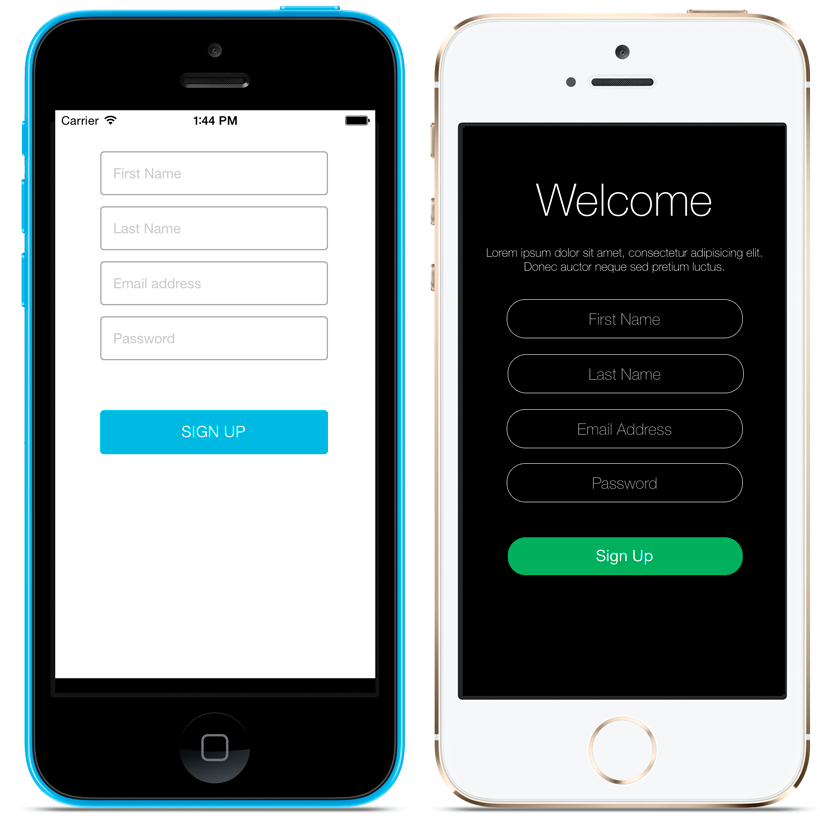
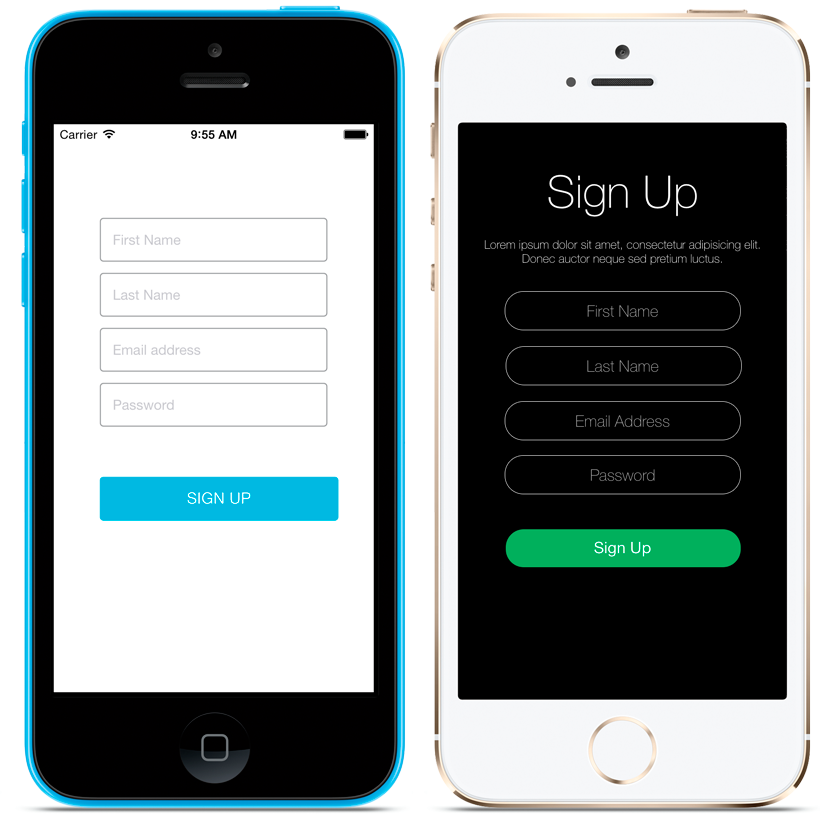
LMW-85 Added auth widgets documentation pages

diff --git a/ios/Documentation/ForgotPasswordWidget.md b/ios/Documentation/ForgotPasswordWidget.md
@@ -1,0 +1,75 @@
+# ForgotPasswordWidget for iOS (Auth module)
+
+## Important note
+__This product is under heavy development and most of the features aren't ready to be used in production.
+It's public just in order to allow developers to preview the technology.__
+
+## Features
+- Send an email to an already registered user with the new password or reset link (depending on server configuration)
+- Three different authentication methods are supported:
+	- Email address
+	- Screen name
+	- User id
+
+
+## Supported in themes
+
+- Default
+- Flat7
+
+![Forgot password widget using Default and Flat7 themes](Images/forgotpwd.png "Forgot password widget using Default and Flat7 themes")
+
+## Requirements
+
+- XCode 6.0 or above
+- iOS 8 SDK
+- Liferay Portal 6.2 CE or EE
+- Mobile Widgets plugin installed
+
+## Compatiblity
+
+- iOS 7 and above
+
+## Server configuration
+
+### Authentication method
+Note that the authentication method configured in the portal can be different than the used in this widget. You may want to allow users to remember their password providing their email address but the authentication method could be based on screen name.
+
+### Password reset
+Depending on server configuration `Control Panel - Portal Settings - Authentication`, the forgot password features could be enabled or not.
+
+![](Images/password-reset.png)
+
+- If both options are unchecked, this feature is be disabled.
+- If both options are checked, an email with reset link will be sent
+- If first option is checked and second one is unchecked, an email with new password will be sent.
+
+Refer to [Configuring Portal Settings](https://www.liferay.com/documentation/liferay-portal/6.2/user-guide/-/ai/portal-settings-liferay-portal-6-2-user-guide-16-en) section for more details.
+
+
+### Anonymous request
+Given that this request is done without being logged in, it need to be authenticated against the API. It's recommended that the portal administrator creates an specific user with minimal permissions in order to allow this operation.
+
+
+## Attributes
+
+| Attribute | Data type | Explanation |
+|-----------|-----------|-------------| 
+|  `anonymousApiUserName` | `string` | The user name, email adress, or userId (depending on portal's authentication method) to use for authenticate this request |
+|  `anoymousApiPassword` | `string` | The password to be used to authenticate this request |
+|  `companyId` | `number` | When set, the authentication is done for a user within the especified company. If the value is 0, the company especified in `LiferayServerContext` will be used. |
+|  `authMethod` | `string` | The information requested to the user: `email`, `screenName` or `userId` |
+
+
+## Delegate
+
+ForgotPasswordWidget delegates some event in an object that conforms `ForgotPasswordWidgetDelegate` protocol.
+This protocol allows to implement the following methods:
+
+- `onForgotPasswordResponse(boolean)`: called when email was successfully sent. The boolean parameter indicates whether a new password was generated or a reset link was sent.
+- `onForgotPasswordError(error)`: called when an error happened in the process. The NSError object describing the error occurred.
+
+
+
+    
+    

diff --git a/ios/Documentation/SignUpWidget.md b/ios/Documentation/SignUpWidget.md
@@ -1,0 +1,65 @@
+# SignUpWidget for iOS (Auth module)
+
+## Important note
+__This product is under heavy development and most of the features aren't ready to be used in production.
+It's public just in order to allow developers to preview the technology.__
+
+## Features
+- Creates a new user in the portal.
+- Could make a auto login if the creation is successful.
+- Could save the credentials of the user created in the keychain.
+
+## Supported in themes
+
+- Default
+- Flat7
+
+![SignUp widget using Default and Flat7 themes](Images/signup.png "SignUp widget using Default and Flat7 themes")
+
+## Requirements
+
+- XCode 6.0 or above
+- iOS 8 SDK
+- Liferay Portal 6.2 CE or EE
+
+## Compatiblity
+
+- iOS 7 and above
+
+## Server configuration
+
+The configuration related to this widget can be found at `Control Panel - Portal Settings - Authentication`
+
+![](Images/portal-signup.png)
+
+Refer to [Configuring Portal Settings](https://www.liferay.com/documentation/liferay-portal/6.2/user-guide/-/ai/portal-settings-liferay-portal-6-2-user-guide-16-en) section for more details.
+
+### Anonymous request
+Given that this request is done without being logged in, it need to be authenticated against the API. It's recommended that the portal administrator creates an specific user with minimal permissions in order to allow this operation.
+
+
+## Attributes
+
+| Attribute | Data type | Explanation |
+|-----------|-----------|-------------| 
+|  `anonymousApiUserName` | `string` | The user name, email adress, or userId (depending on portal's authentication method) to use for authenticate this request. |
+|  `anoymousApiPassword` | `string` | The password to be used to authenticate this request. |
+|  `companyId` | `number` | When set, the authentication is done for a user within the especified company. If the value is 0, the company especified in `LiferayServerContext` will be used. |
+|  `autologin` | `boolean` | Whether or not the user will be logged in after sucessful sign up. |
+|  `saveCredentials` | `boolean` | Whether or not the user credentials and attributes will be stored in the keychain after a sucessful log in. It's ignored if `autologin` is disabled. |
+
+
+## Delegate
+
+This widget will delegate some event in an object that conforms `SignUpWidgetDelegate` protocol.
+If the `autologin` is enabled, login events will be delegated to an object conforming `LoginWidgetDelegate`. Refer to [LoginWidget documentation](LoginWidget.md) for more details on this.
+
+The `SignUpWidgetDelegate` protocol allows to implement the following methods:
+
+- `onSignUpResponse(boolean)`: called when sign up is successfully completed. The user attributes are passed as a dictionary of keys (NSStrings) and values (NSObject). Keys supported are the same as [portal's User entity](https://github.com/liferay/liferay-portal/blob/6.2.x/portal-impl/src/com/liferay/portal/service.xml#L2227)
+- `onSignUpError(error)`: called when an error happened in the process. The NSError object describing the error occurred.
+
+
+
+    
+    

diff --git a/ios/Documentation/LoginWidget.md b/ios/Documentation/LoginWidget.md
@@ -1,0 +1,64 @@
+# LoginWidget for iOS (Auth module)
+
+## Important note
+__This product is under heavy development and most of the features aren't ready to be used in production.
+It's public just in order to allow developers to preview the technology.__
+
+## Features
+- Authenticate users against Liferay Portal user management.
+- Three different authentication methods are supported:
+	- Email address
+	- Screen name
+	- User id
+- When user is succesfully authenticated, her attributes are retrieved in order to be used by the programmer.
+- User credentials and attributes can be stored securely in the keychain.
+- Stored credentials and attributes can be used to perform auto login operations on next start ups.
+
+
+## Supported in themes
+
+- Default
+- Flat7
+
+![Login widget using Default and Flat7 themes](Images/login.png "Login widget using Default and Flat7 themes")
+
+## Requirements
+
+- XCode 6.0 or above
+- iOS 8 SDK
+- Liferay Portal 6.2 CE or EE
+
+## Compatiblity
+
+- iOS 7 and above
+
+## Server configuration
+The right authentication method should be configured in `Control Panel - Portal Settings - Authentication`
+
+![Liferay portal authentication methods](Images/portal-auth.png "Liferay portal authentication methods")
+
+Refer to [Configuring Portal Settings](https://www.liferay.com/documentation/liferay-portal/6.2/user-guide/-/ai/portal-settings-liferay-portal-6-2-user-guide-16-en) section for more details.
+
+## Attributes
+
+| Attribute | Data type | Explanation |
+|-----------|-----------|-------------| 
+|  `saveCredentials` | `boolean` | When set, stores the user credentials and attributes to keychain. In next runs, you can load stored credentials calling `SessionContext.loadSessionFromStore()` |
+|  `companyId` | `number` | When set, the authentication is done for a user within the especified company. If the value is 0, the company especified in `LiferayServerContext` will be used. |
+|  `authMethod` | `string` | The authentication method configured in the server. One of the following values: `email`, `screenName` or `userId` |
+
+
+## Delegate
+
+LoginWidget delegates some event in an object that conforms `LoginWidgetDelegate` protocol.
+This protocol allows to implement the following methods:
+
+- `onLoginResponse(dictionary)`: called when login is successfully completed. The user attributes are passed as a dictionary of keys (NSStrings) and values (NSObject). Keys supported are the same as [portal's User entity](https://github.com/liferay/liferay-portal/blob/6.2.x/portal-impl/src/com/liferay/portal/service.xml#L2227)
+- `onLoginError(error)`: called when an error happened in the login. The NSError object describing the login error occurred.
+- `onCredentialsSaved`: called when the user credentials are successfully stored (after a successfull log in).
+- `onCredentialsLoaded`: called when the user credentials are retrieved (if the widget is used and stored credentials are available).
+
+
+
+    
+    

diff --git a/ios/README.md b/ios/README.md
@@ -102,8 +102,8 @@ Modules:
 - **Auth**: all related widgets with user authentication. It uses the [user management](https://www.liferay.com/documentation/liferay-portal/6.2/user-guide/-/ai/management-liferay-portal-6-2-user-guide-16-en) features of your Liferay Portal. It includes:
 
 	- [LoginWidget](Documentation/LoginWidget.md): gives your app the capacity to sign in users into it.
-	- [SignUpWidget](): gives your app the capacity to sign up users into it.
-	- [ForgotPasswordWidget](): gives your app the capacity to send emails to users with new password or reset link.
+	- [SignUpWidget](Documentation/SignUpWidget.md): gives your app the capacity to sign up users into it.
+	- [ForgotPasswordWidget](Documentation/ForgotPasswordWidget.md): gives your app the capacity to send emails to users with new password or reset link.
 
 - **Dynamic Data Lists (DDL)**: all widgets that allow to interact with dynamically created data forms and records. It uses all the features available from [Dynamic Data List](https://www.liferay.com/documentation/liferay-portal/6.2/user-guide/-/ai/using-web-forms-and-dynamic-data-lists-liferay-portal-6-2-user-guide-10-en) of your portal.
 
